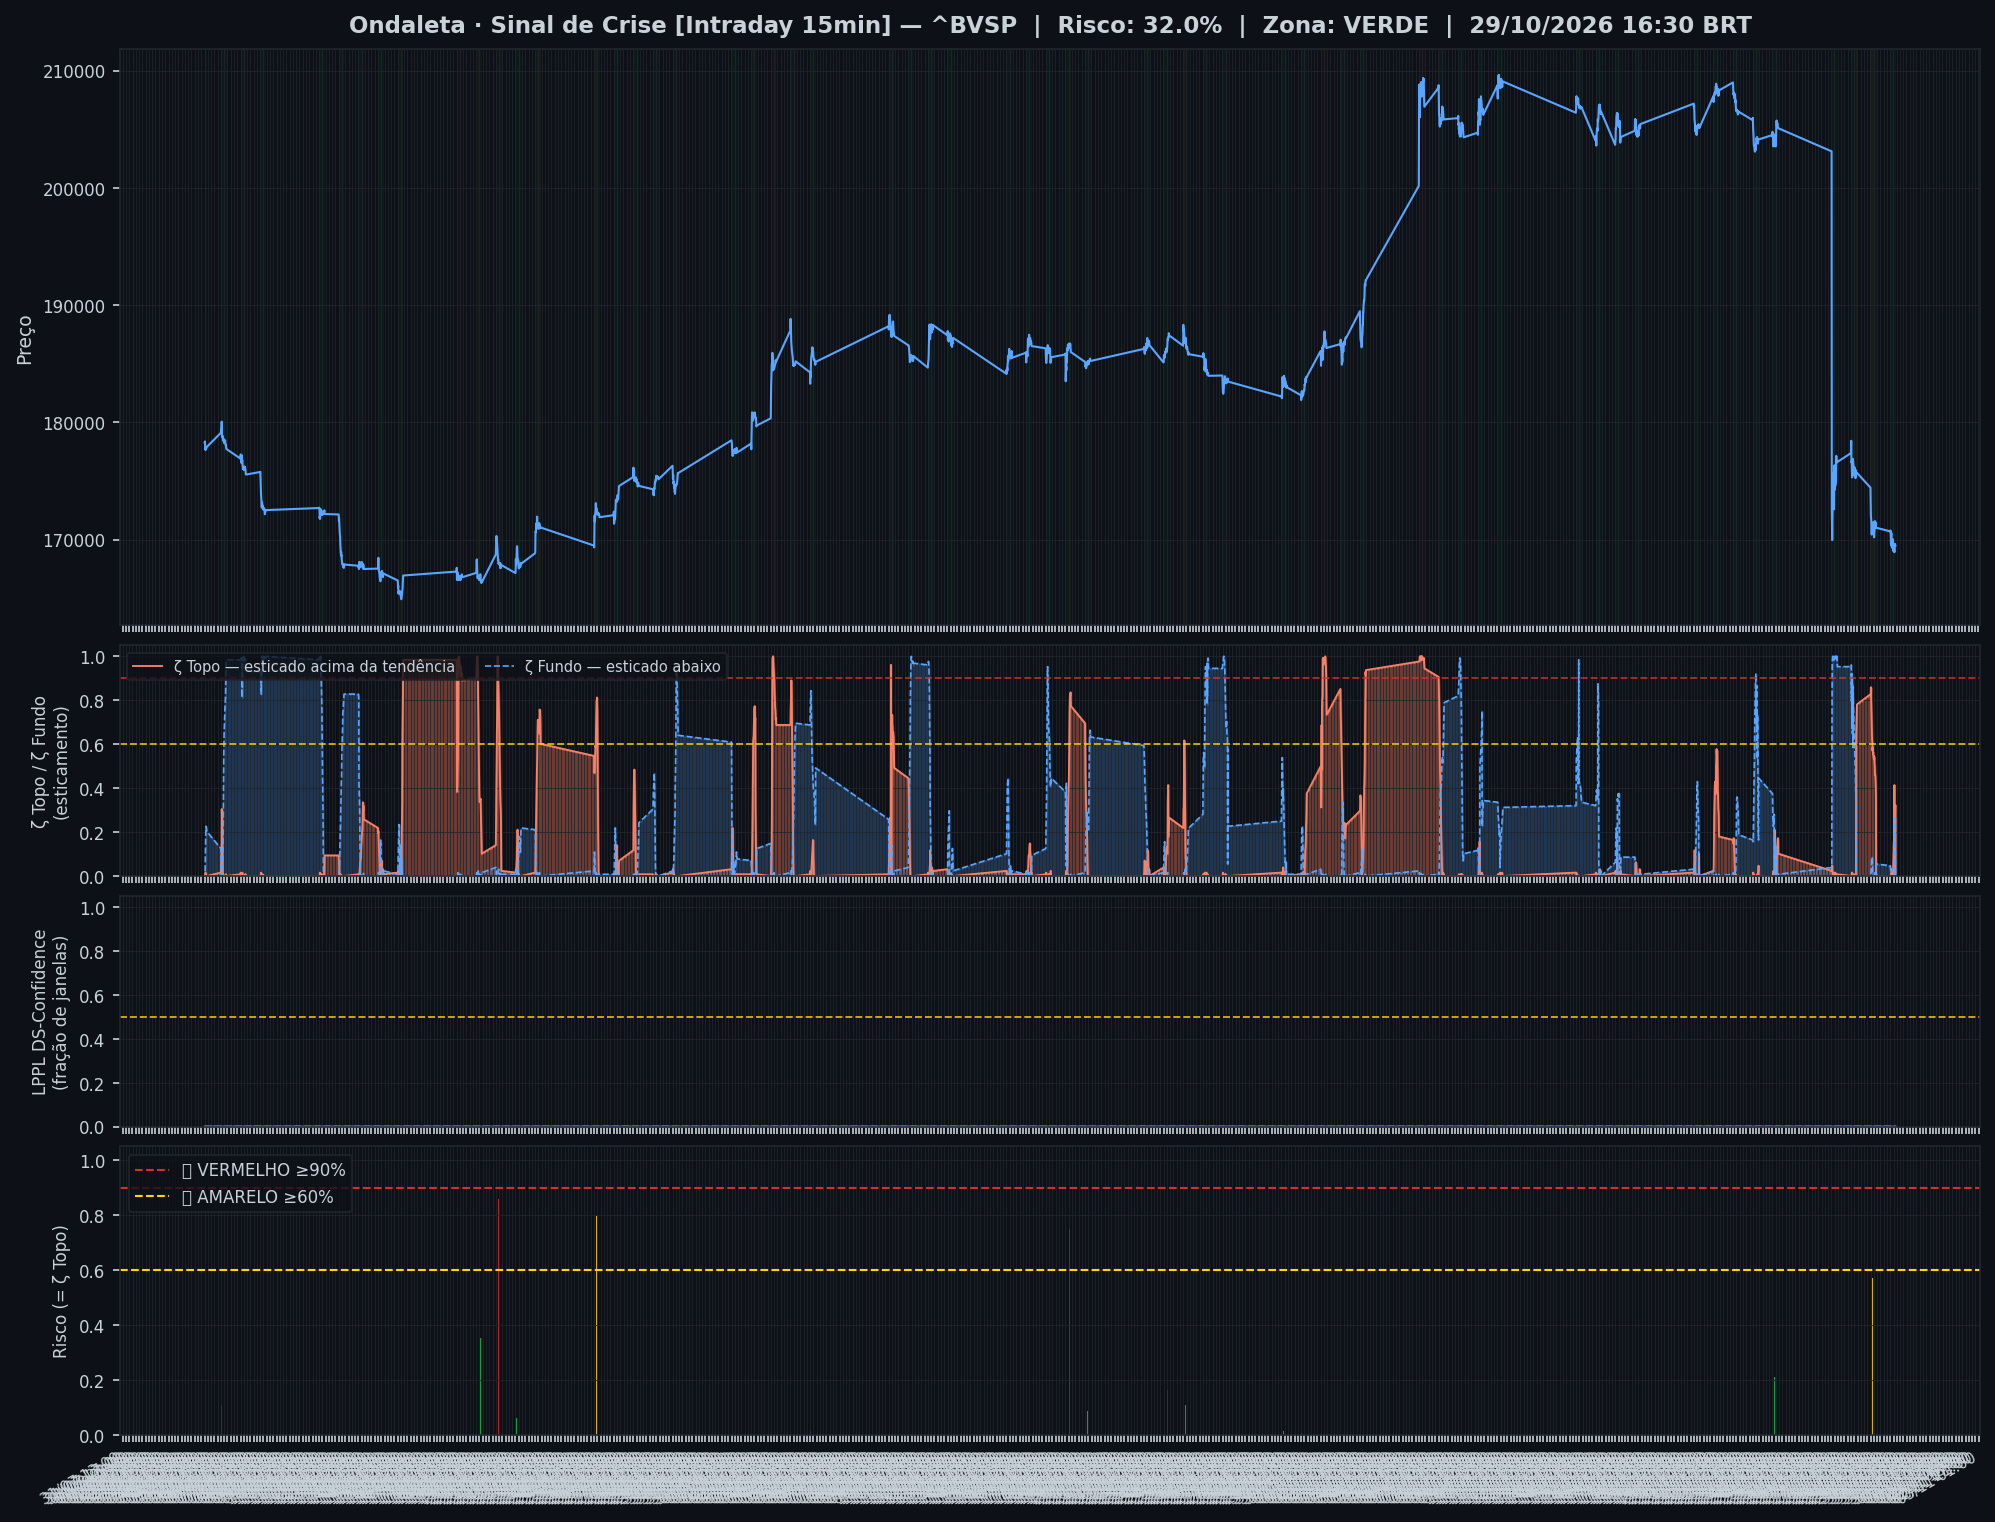
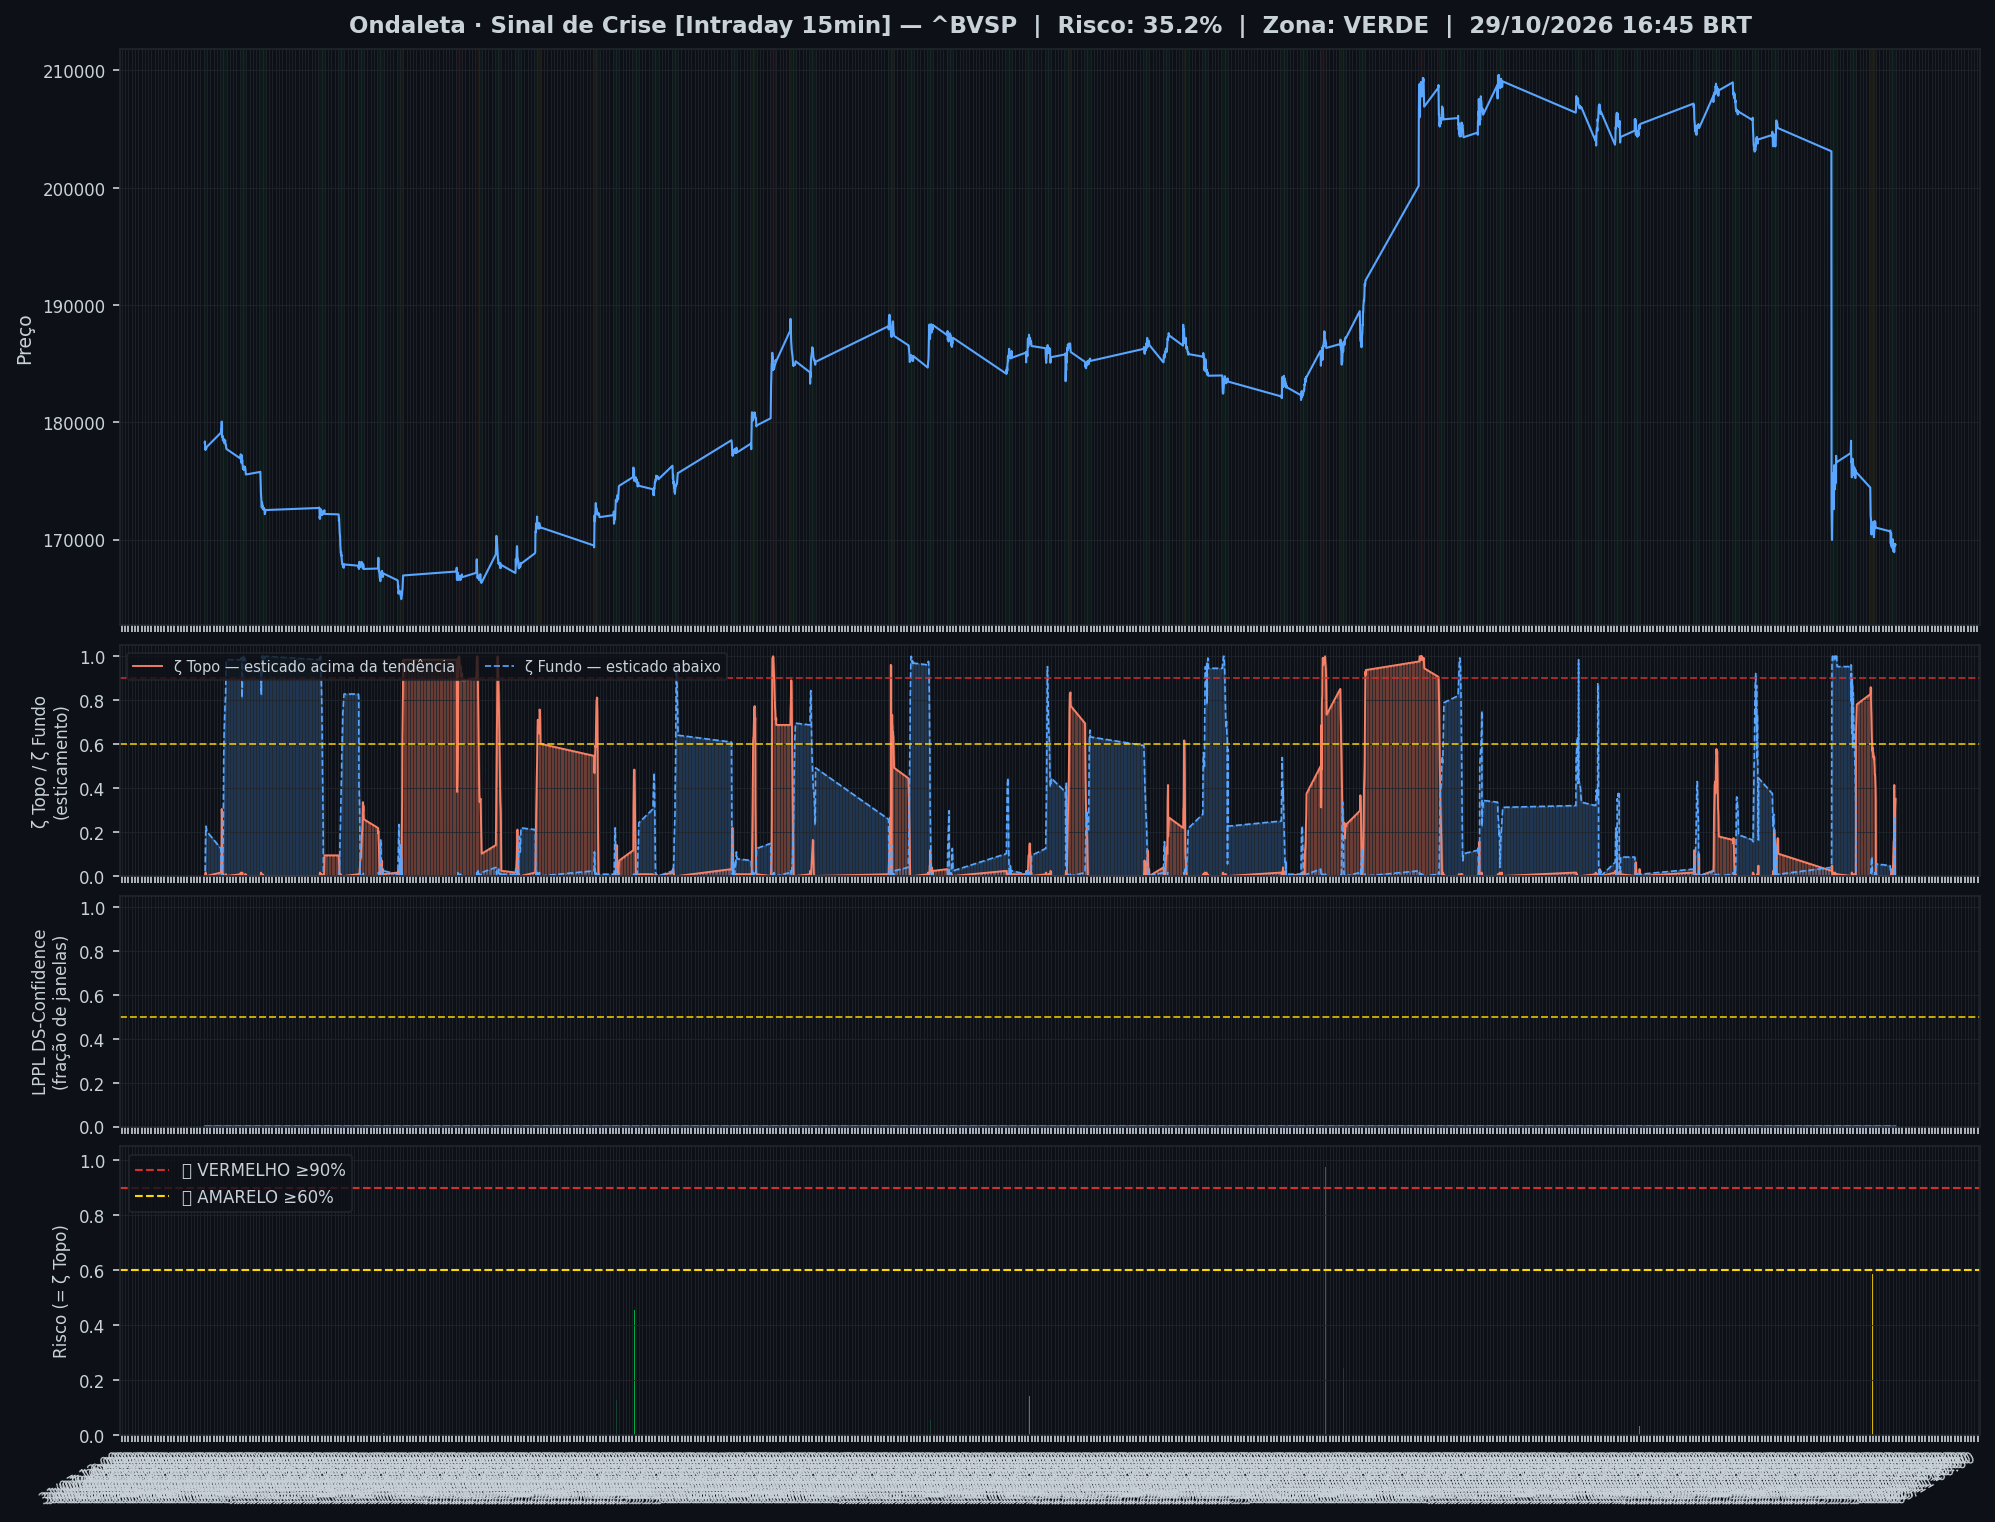
🤖 Auto: Sinal 29/10/2026 17:00

Changed region(s): [[0.0932, 0.4323, 0.9634, 0.5867], [0.0311, 0.9264, 0.9945, 0.9882]]

diff --git a/content/intraday/2026-10-29.md b/content/intraday/2026-10-29.md
@@ -1,11 +1,11 @@
 ---
-title: "🟢 Intraday 29/10/2026 16:30 BRT — VERDE"
+title: "🟢 Intraday 29/10/2026 16:45 BRT — VERDE"
 date: 2026-10-29
 tags: [intraday]
 ---
 
-> [!success] Onde o mercado está agora (29/10 16:30, candles de 15 min): **🟢 Calmo**
-> `Pânico ◀─────────────●───────▶ Euforia`
+> [!success] Onde o mercado está agora (29/10 16:45, candles de 15 min): **🟢 Calmo**
+> `Pânico ◀──────────────●──────▶ Euforia`
 >
 > O Ibovespa está dentro da sua faixa normal, sem excesso para cima nem para baixo.
 > No gráfico diário: 📉 Esticamento desinflando.
@@ -20,8 +20,8 @@ tags: [intraday]
 > | 📍 **Sinais** | hoje: nenhum sinal | [abrir](sinais-topo-fundo/) |
 > | 🧪 **Placar ao vivo** | 1 operação(ões), 0 com lucro, soma -0,8% | [abrir](operacoes/) |
 
-> [!success] Sinal de Crise · Intraday 15 min (29/10 16:30): 🟢 **VERDE** — Risco 32% · ▲ +2 p.p. vs leitura anterior
-> `██████░░░░░░░░░░░░░░`
+> [!success] Sinal de Crise · Intraday 15 min (29/10 16:45): 🟢 **VERDE** — Risco 35% · ▲ +3 p.p. vs leitura anterior
+> `███████░░░░░░░░░░░░░`
 > Preço na faixa normal em torno da tendência.
 
 
@@ -32,13 +32,13 @@ tags: [intraday]
 >
 > *Leitura educacional baseada em 26 anos de dados, não recomendação. [Como usar](../metodologia/crise#3-como-usar-na-prática).*
 
-| Indicador — Sinal de Crise · Intraday 15 min (29/10 16:30) | Valor |
+| Indicador — Sinal de Crise · Intraday 15 min (29/10 16:45) | Valor |
 |---|---|
-| 🔴 ζ Topo — preço esticado acima da tendência | **32%** |
+| 🔴 ζ Topo — preço esticado acima da tendência | **35%** |
 | 🔵 ζ Fundo — preço esticado abaixo da tendência | 0% |
 | 🫧 LPPL bolha — alta super-exponencial (risco de crash) | 0% |
 | 🫧 LPPL antibolha — queda super-exponencial (risco de repique) | 0% |
-| 📊 Ibovespa | 169.489 pts |
+| 📊 Ibovespa | 169.555 pts |
 
 ![Gráfico do sinal](../graficos/sinal_intraday.png)
 
@@ -46,6 +46,7 @@ tags: [intraday]
 
 | Data | Zona | Evento | Risco | ζ Topo | ζ Fundo | LPPL |
 |---|---|---|---|---|---|---|
+| 2026-10-29 16:45 | 🟢 VERDE |  | **35%** | 35% | 0% | 0% |
 | 2026-10-29 16:30 | 🟢 VERDE |  | **32%** | 32% | 0% | 0% |
 | 2026-10-29 16:15 | 🟢 VERDE |  | **30%** | 30% | 1% | 0% |
 | 2026-10-29 16:00 | 🟢 VERDE |  | **0%** | 0% | 27% | 0% |
@@ -75,51 +76,50 @@ tags: [intraday]
 | 2026-10-29 10:00 | 🟢 VERDE |  | **0%** | 0% | 5% | 0% |
 | 2026-10-28 17:15 | 🟢 VERDE |  | **0%** | 0% | 5% | 0% |
 | 2026-10-28 17:00 | 🟢 VERDE |  | **1%** | 1% | 5% | 0% |
-| 2026-10-28 16:45 | 🟢 VERDE |  | **0%** | 0% | 5% | 0% |
 
 <small>Destaques: 🟡 ≥ 60% · 🔴 ≥ 90% (Risco e ζ Topo) · 🔵 ≥ 60% · 🔪 ≥ 90% (ζ Fundo) · 🫧 ≥ 30% · 🫧🔴 ≥ 50% (LPPL)</small>
 
 ## Monitor Multi-Ativo
 
-**8% dos ativos em tensão** (2🔴 0🟡) · **2 com ζ Fundo alto** — quanto mais ativos disparam juntos, mais confiável o sinal.
+**8% dos ativos em tensão** (2🔴 0🟡) · **1 com ζ Fundo alto** — quanto mais ativos disparam juntos, mais confiável o sinal.
 
 > [!danger] Em destaque no multi-ativo
-> 🔴 **SUZANO S.A.** ζ Topo 98% · 🟡 **GERDAU** ζ Topo 79% · 🔵 **REDE D OR** ζ Fundo 72% · 🔵 **LOCALIZA** ζ Fundo 60%
+> 🔴 **SUZANO S.A.** ζ Topo 99% · 🟡 **GERDAU** ζ Topo 76% · 🔵 **REDE D OR** ζ Fundo 72%
 
 | Zona | Ativo | Setor | ζ Topo | ζ Fundo |
 |---|---|---|---|---|
-| 🔴 | **SUZANO S.A.** | Papel/Celulose | 🔴 **97.7%** | 0.8% |
-| 🔴 | **GERDAU** | Siderurgia | 🟡 **78.9%** | 0.0% |
+| 🔴 | **SUZANO S.A.** | Papel/Celulose | 🔴 **99.2%** | 0.0% |
+| 🔴 | **GERDAU** | Siderurgia | 🟡 **75.8%** | 0.0% |
 | 🟢 | **REDE D OR** | Saúde | 0.0% | 🔵 **71.9%** |
-| 🟢 | **LOCALIZA** | Aluguel | 0.0% | 🔵 **60.2%** |
-| 🟢 | **VIBRA** | Energia | 1.6% | 57.0% |
-| 🟢 | **AXIA ENERGIA** | Energia | 0.0% | 54.7% |
-| 🟢 | **PRIO** | Petróleo | 1.6% | 51.6% |
+| 🟢 | **VIBRA** | Energia | 0.8% | 58.6% |
 | 🟢 | **B3** | Financeiro | 0.8% | 50.8% |
-| 🟢 | **BRADESCO** | Financeiro | 0.0% | 50.0% |
-| 🟢 | **WEG** | Industrial | 49.2% | 0.0% |
+| 🟢 | **WEG** | Industrial | 50.8% | 0.0% |
+| 🟢 | **BRADESCO** | Financeiro | 0.0% | 49.2% |
 | 🟢 | **BTGP BANCO** | Financeiro | 0.8% | 49.2% |
-| 🟢 | **EQUATORIAL** | Energia | 0.8% | 47.7% |
-| 🟢 | **AMBEV S/A** | Consumo | 1.6% | 46.9% |
-| 🟢 | **ENEVA** | Energia | 0.0% | 43.8% |
-| 🟢 | **EMBRAER** | Outros | 42.2% | 0.0% |
+| 🟢 | **AXIA ENERGIA** | Energia | 0.0% | 46.1% |
+| 🟢 | **AMBEV S/A** | Consumo | 1.6% | 46.1% |
+| 🟢 | **PRIO** | Petróleo | 0.8% | 46.1% |
+| 🟢 | **EQUATORIAL** | Energia | 0.0% | 45.3% |
+| 🟢 | **ENEVA** | Energia | 0.0% | 42.2% |
 | 🟢 | **BRASIL** | Financeiro | 0.0% | 39.8% |
-| 🟢 | **ULTRAPAR** | Outros | 0.0% | 35.2% |
-| 🟢 | **VALE** | Mineração | 34.4% | 0.0% |
-| 🟢 | **COPEL** | Energia | 0.0% | 30.5% |
-| 🟢 | **ITAUSA** | Financeiro | 0.0% | 28.1% |
-| 🟢 | **BBSEGURIDADE** | Financeiro | 28.1% | 0.0% |
-| 🟢 | **ITAUUNIBANCO** | Financeiro | 0.0% | 22.7% |
-| 🟢 | **SABESP** | Saneamento | 0.0% | 14.1% |
-| 🟢 | **PETROBRAS** | Petróleo | 0.0% | 7.8% |
-| 🟢 | **USD/BRL** | Câmbio | 0.0% | 4.7% |
-| 🟢 | **PETROBRAS** | Petróleo | 0.0% | 0.8% |
+| 🟢 | **ULTRAPAR** | Outros | 0.0% | 38.3% |
+| 🟢 | **EMBRAER** | Outros | 35.2% | 0.0% |
+| 🟢 | **LOCALIZA** | Aluguel | 32.0% | 0.0% |
+| 🟢 | **BBSEGURIDADE** | Financeiro | 28.9% | 0.0% |
+| 🟢 | **VALE** | Mineração | 27.3% | 0.0% |
+| 🟢 | **COPEL** | Energia | 0.0% | 25.8% |
+| 🟢 | **ITAUSA** | Financeiro | 0.0% | 25.0% |
+| 🟢 | **ITAUUNIBANCO** | Financeiro | 0.0% | 21.9% |
+| 🟢 | **SABESP** | Saneamento | 0.0% | 10.2% |
+| 🟢 | **PETROBRAS** | Petróleo | 0.0% | 8.6% |
+| 🟢 | **USD/BRL** | Câmbio | 0.0% | 7.0% |
+| 🟢 | **PETROBRAS** | Petróleo | 0.0% | 1.6% |
 
 <small>Destaques: 🟡 ≥ 60% · 🔴 ≥ 90% (Risco e ζ Topo) · 🔵 ≥ 60% · 🔪 ≥ 90% (ζ Fundo) · 🫧 ≥ 30% · 🫧🔴 ≥ 50% (LPPL)</small>
 
 ![Monitor multi-ativo](../graficos/multi_intraday.png)
 
-*Página atualizada em 29/10/2026 16:45 BRT (leitura da barra de 2026-10-29 16:30 BRT).*
+*Página atualizada em 29/10/2026 17:00 BRT (leitura da barra de 2026-10-29 16:45 BRT).*
 
 > [!info]- Como interpretar (clique para expandir)
 > - **ζ Topo**: fração dos coeficientes wavelet (Chapéu Mexicano, Caetano & Yoneyama 2009) acima de +0,8σ na faixa mais recente. Na ponta da série isso acontece quando o preço termina **esticado acima da tendência** em muitas escalas — euforia/topo. ζ=0,90 é o limiar de Caetano: quedas que partiram desse padrão foram mais fundas. **É risco de reversão, não data do crash.**

diff --git a/content/index.md b/content/index.md
@@ -6,10 +6,10 @@ tags: [home]
 
 **As ondas do mercado, explicadas.** Leitura do Ibovespa com estatística de 26 anos, baseada no trabalho de pesquisadores e traders reconhecidos e adaptada por Jarbas Daniel da Costa.
 
-*Última atualização: 29/10/2026 16:45 BRT · Intraday 15min*
+*Última atualização: 29/10/2026 17:00 BRT · Intraday 15min*
 
-> [!success] Onde o mercado está agora (29/10 16:30, candles de 15 min): **🟢 Calmo**
-> `Pânico ◀─────────────●───────▶ Euforia`
+> [!success] Onde o mercado está agora (29/10 16:45, candles de 15 min): **🟢 Calmo**
+> `Pânico ◀──────────────●──────▶ Euforia`
 >
 > O Ibovespa está dentro da sua faixa normal, sem excesso para cima nem para baixo.
 > No gráfico diário: 📉 Esticamento desinflando.
@@ -20,7 +20,7 @@ tags: [home]
 
 | Módulo | Agora | |
 |---|---|---|
-| 🌊 **Sinal de Crise** | 🟢 VERDE · 🟢 calmo · ζ Topo 32% | [relatório](intraday/2026-10-29) |
+| 🌊 **Sinal de Crise** | 🟢 VERDE · 🟢 calmo · ζ Topo 35% | [relatório](intraday/2026-10-29) |
 | 📈 **Tendência MME9** | Diário ⚡ saiu hoje às 11:45 a 169.516 (confirma às 19h)<br>Semanal 🟢 comprado desde 31/08 (-3,1%) | [abrir](operacoes/tendencia) |
 | 🎯 **Entradas do método** | 🟢 comprado: Diário · Nadaraya<br>⏳ aguardando: H4 · Semáforo N2 | [abrir](operacoes/entradas) |
 | 📍 **Sinais** | hoje: nenhum sinal | [abrir](sinais-topo-fundo/) |
@@ -49,18 +49,18 @@ tags: [home]
 > *Leitura educacional baseada em 26 anos de dados, não recomendação. [Como usar](metodologia/crise#3-como-usar-na-prática).*
 
 > [!info]- 🌊 Detalhes do Sinal de Crise (indicadores e últimos 7 pregões)
-> > [!success] Sinal de Crise · Intraday 15 min (29/10 16:30): 🟢 **VERDE** — Risco 32% · ▲ +2 p.p. vs leitura anterior
-> > `██████░░░░░░░░░░░░░░`
+> > [!success] Sinal de Crise · Intraday 15 min (29/10 16:45): 🟢 **VERDE** — Risco 35% · ▲ +3 p.p. vs leitura anterior
+> > `███████░░░░░░░░░░░░░`
 > > Preço na faixa normal em torno da tendência.
 >
 >
-> | Indicador — Sinal de Crise · Intraday 15 min (29/10 16:30) | Valor |
+> | Indicador — Sinal de Crise · Intraday 15 min (29/10 16:45) | Valor |
 > |---|---|
-> | 🔴 ζ Topo — preço esticado acima da tendência | **32%** |
+> | 🔴 ζ Topo — preço esticado acima da tendência | **35%** |
 > | 🔵 ζ Fundo — preço esticado abaixo da tendência | 0% |
 > | 🫧 LPPL bolha — alta super-exponencial (risco de crash) | 0% |
 > | 🫧 LPPL antibolha — queda super-exponencial (risco de repique) | 0% |
-> | 📊 Ibovespa | 169.489 pts |
+> | 📊 Ibovespa | 169.555 pts |
 >
 > **Multi-ativo:** 8% em tensão (2🔴 0🟡 de 26 ativos)
 >
@@ -68,7 +68,7 @@ tags: [home]
 >
 > | Data | Zona | Risco | ζ Topo | ζ Fundo | LPPL |
 > |---|---|---|---|---|---|
-> | [29/10/2026](intraday/2026-10-29) | 🟢 VERDE | **32%** | 32% | 0% | 0% |
+> | [29/10/2026](intraday/2026-10-29) | 🟢 VERDE | **35%** | 35% | 0% | 0% |
 > | [28/10/2026](intraday/2026-10-28) | 🟢 VERDE | **0%** | 0% | 5% | 0% |
 >
 > <small>Destaques: 🟡 ≥ 60% · 🔴 ≥ 90% (Risco e ζ Topo) · 🔵 ≥ 60% · 🔪 ≥ 90% (ζ Fundo) · 🫧 ≥ 30% · 🫧🔴 ≥ 50% (LPPL)</small>

diff --git a/content/operacoes/entradas.md b/content/operacoes/entradas.md
@@ -33,7 +33,7 @@ description: "Compra depois de um sinal de fundo: Nadaraya no diário, semáforo
 > | H4 · Semáforo N2 | 12/06/26 14h a 171.134 | 15/06/26 14h a 171.134 | **+0,0%** | stop no preço de entrada |
 > | H4 · Semáforo N2 | 05/05/26 10h a 186.583 | 07/05/26 10h a 186.583 | **+0,0%** | stop no preço de entrada |
 >
-> <small>Atualizado 28/10 19:00 · checado no pregão às 16:45. Nota: ✅ passou no teste fora da amostra (walk-forward 2008–2026) · 🧪 em teste (H4, com aviso no Telegram) ou em observação (ζ, sem aviso) · 🧪 na tabela = operação do teste ao vivo.</small>
+> <small>Atualizado 28/10 19:00 · checado no pregão às 17:00. Nota: ✅ passou no teste fora da amostra (walk-forward 2008–2026) · 🧪 em teste (H4, com aviso no Telegram) ou em observação (ζ, sem aviso) · 🧪 na tabela = operação do teste ao vivo.</small>
 >
 > *Regras: depois de um sinal de fundo, o Diário entra quando o Nadaraya vira para cima; o Semanal e o H4 entram quando um fundo do semáforo fica fixo. Stop e saída de cada regra na [metodologia](metodologia/regras-de-operacao#entradas-do-método). Nenhuma regra de venda passou no teste. Os números do histórico têm viés de escolha (overfitting); o placar ao vivo é o que vale. Leitura educacional do método, não recomendação.*
 

diff --git a/content/operacoes/ranking.md b/content/operacoes/ranking.md
@@ -5,7 +5,7 @@ tags: [operacoes]
 description: "As regras de compra do site ordenadas pelo resultado, com treino, teste e placar ao vivo"
 ---
 
-*Atualizado 29/10/2026 16:45 · histórico simulado com as regras congeladas em 23/10/2026 + placar ao vivo.*
+*Atualizado 29/10/2026 17:00 · histórico simulado com as regras congeladas em 23/10/2026 + placar ao vivo.*
 
 As regras de compra do site, **da que mais rendeu para a que menos rendeu**. O resultado é por operação, no índice à vista, sem custos e sem juros compostos (a soma é só a soma das operações). **Treino** = entradas de 2001 a 2013 e **teste** = 2014 em diante: uma regra só é confiável se ganhou nos dois. O único resultado sem nenhum ajuste ao histórico é o **placar ao vivo**.
 

diff --git a/content/linha-do-tempo/index.md b/content/linha-do-tempo/index.md
@@ -5,7 +5,7 @@ description: "Todo sinal, ordem, stop e aviso da Ondaleta, do mais recente para 
 tags: [eventos]
 ---
 
-*Atualizada 29/10/2026 16:45 BRT · a cada 15 min no pregão e às 19h.*
+*Atualizada 29/10/2026 17:00 BRT · a cada 15 min no pregão e às 19h.*
 
 Tudo o que o sistema fez ou detectou, **do mais recente para o mais antigo**: sinais de topo e fundo, ordens de compra e de venda armadas, compras, vendas, stops, avisos de 🚨 preço perto do nível e mudanças da Crise. Os **últimos 7 dias** ficam abertos; o resto, por **ano → mês → dia**.
 

diff --git a/content/historico.md b/content/historico.md
@@ -7,6 +7,7 @@ tags: [historico]
 
 | Data | Modo | Zona | Risco | IMA | LPPL |
 |---|---|---|---|---|---|
+| 2026-10-29 16:45 | intraday | 🟢 VERDE | 35% | 35% | 0% |
 | 2026-10-29 16:30 | intraday | 🟢 VERDE | 32% | 32% | 0% |
 | 2026-10-29 16:15 | intraday | 🟢 VERDE | 30% | 30% | 0% |
 | 2026-10-29 16:00 | intraday | 🟢 VERDE | 0% | 0% | 0% |
